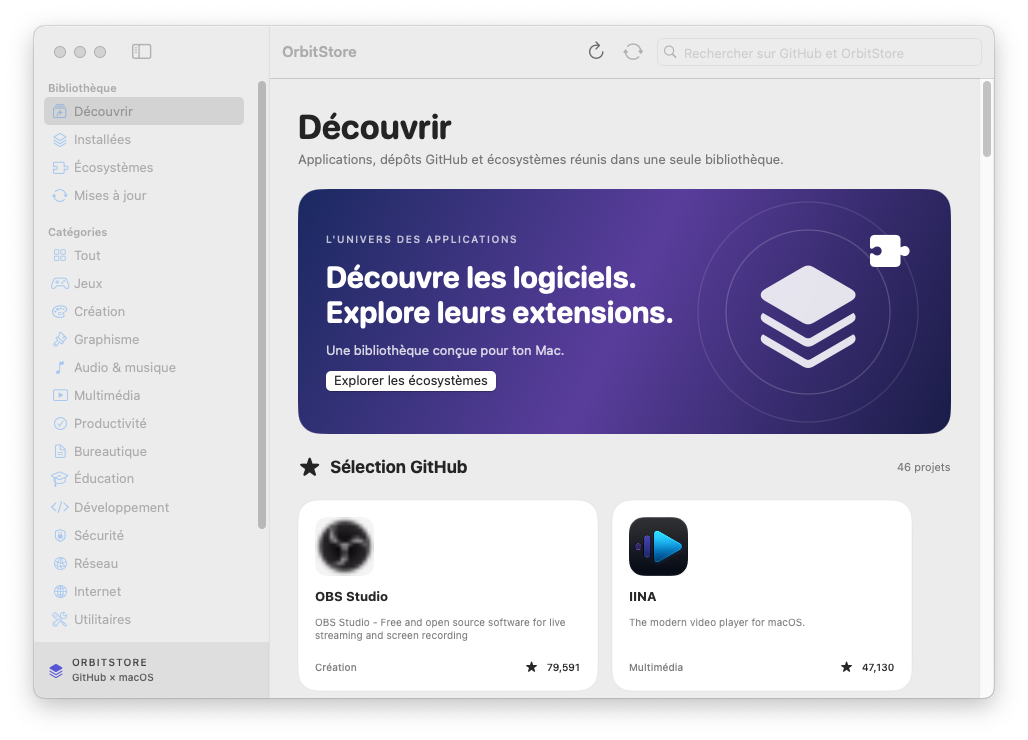
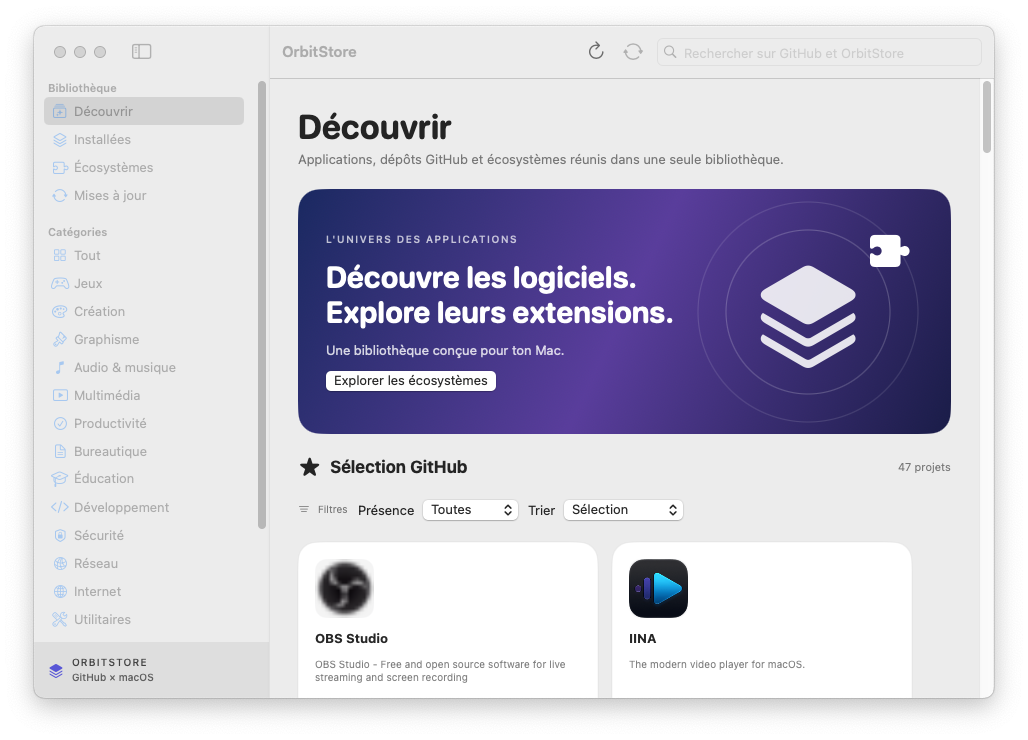
docs: refresh genuine OrbitStore screenshots and demonstrate Installed filters

Changed region(s): [[0.2802, 0.6838, 0.7782, 0.9324], [0.8716, 0.6216, 0.9027, 0.6527]]

diff --git a/README.md b/README.md
@@ -21,6 +21,9 @@ Screenshots of the actual running macOS application. / Captures authentiques de 
 ### Discover / Découvrir
 ![OrbitStore actual Discover screen](docs/screenshots/discover.png)
 
+### Installed / Installées
+![OrbitStore running on macOS showing detected installed applications](docs/screenshots/installed.png)
+
 ### Ecosystems / Écosystèmes
 ![OrbitStore actual ecosystem directory](docs/screenshots/ecosystems.png)
 
